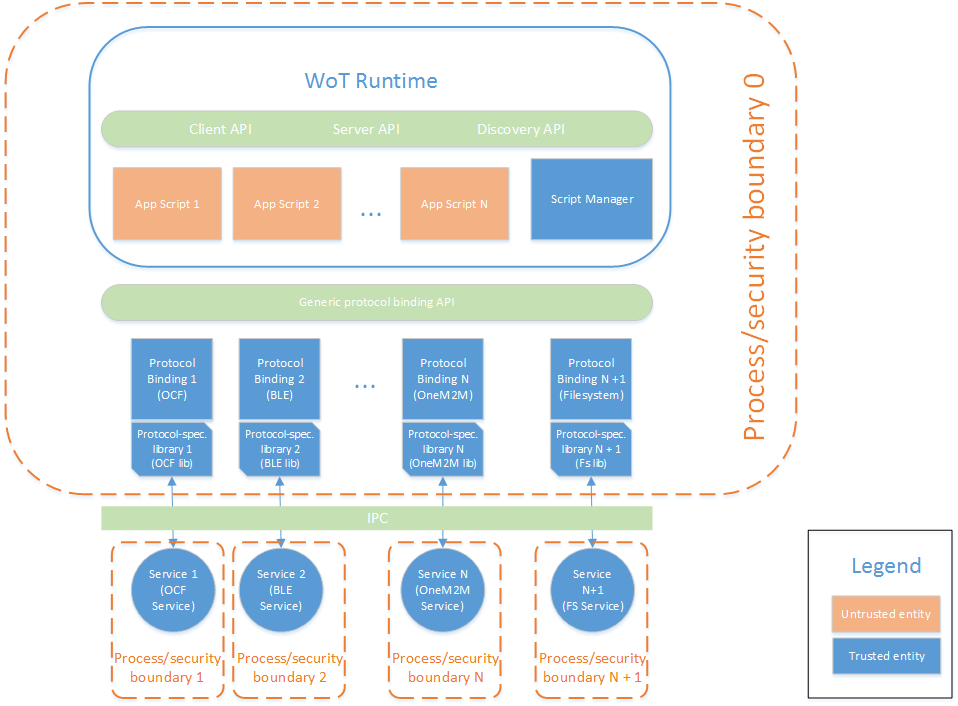
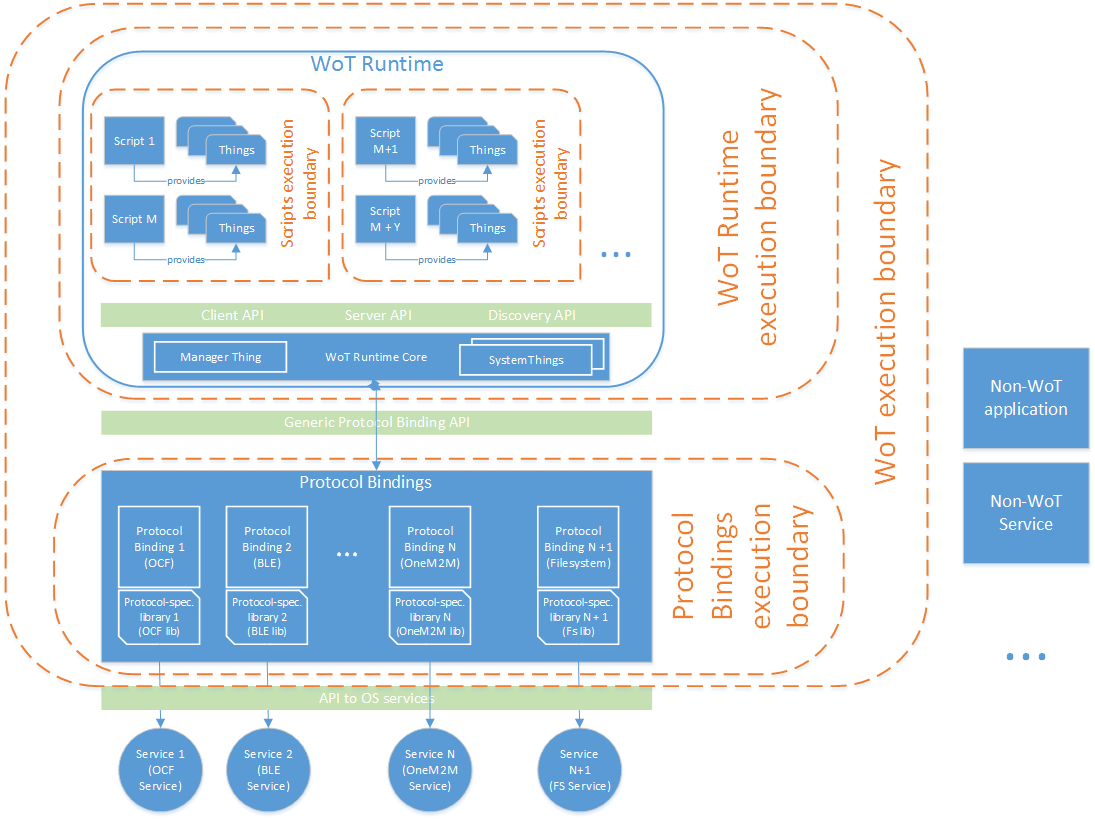
Updates after Osaka's F2F discussions

diff --git a/security-privacy/AssetsThreatModelSecurityObjectives.md b/security-privacy/AssetsThreatModelSecurityObjectives.md
@@ -12,6 +12,14 @@ This section list primary WoT stakeholders.
 
 In addition to the above stakeholders, we might need to define a notion of &quot; **Security Owner**&quot;. It defines an entity that provisions a thing with the security root of trust and sets up initial policies on who can provision/update/remove scripts to/from the WoT runtime, if such model is supported. WoT might generally have a number of independent security owners, each with its own set of provisioned certificates and/or credentials. The exact hierarchy of owners that WoT wants to support is to be discussed. ***Todo: this needs more discussion.***
 
+**WoT Supported Physical Roles?**
+
+This section list primary roles that WoT aims to support.
+
+| **Role** | **Description** | **Level of system access?** |
+| --- | --- | --- |
+| System Maintainer | Administers the WoT network on behalf of solution provider or solution user. ***Todo: need to understand more about this role: what kind of operations would it need to do? Reflash devices, reinstall/install/remove scripts? If it has the level of access equal to solution provider, we just talk about delegation (and there are security mechnisms to do it), not really about separate role...*** | --- |
+
 **Assets**
 
 This section lists all WoT Assets that are important from security point of view.
@@ -19,100 +27,109 @@ This section lists all WoT Assets that are important from security point of view
 | **Description** | **Who should have access (Trust Model)** | **Attack Points** |
 | --- | --- | --- |
 | **Thing Description(TD)**<br />Access Control policies for TDs and resources it provides  are part of TDs and they are managed in discretionary access control model way (owner of TD set the AC policy). Some contents of TDs might be privacy sensitive and therefore should not be shared without a need. TDs integrity is crucial for the system correct operation. | TDs owner: full access Others: read only for minimal required part. | Storage on thing itself, cloud storage, in-transfer (network) including TD updates. |
-| **Solution user data** Can be highly privacy sensitive and confidential. | Different solution users might have different level of access to this data based on the use case. Non-authorized access must be minimized since access even to small amount of information (for example last timestamp when door lock API was used) might have severe privacy converns (allows to detect that owner has been away from his house) Mechanism should be flexible to configure and include also RBAC.  Others: should have no access unless specifically allowed | Storage on thing itself, solution provider storage (remote cloud or other), in-transfer (network) |
-| **Solution provider scripts and their configuration data** | Solution provider: full accessOthers: no access | Storage on the thing itself, remote storage (if scripts are backed up to a remote storage), in-transfer only for initial provisioning and scripts updates |
+| **Thing object instance**<br />Thing object instance confidentiality should be guranteed by the system since it might contain privacy-sensitive information. Integrity is also mandatory for the operation. | Thing owner: full access Others: read only for minimal required part. | WoT Runtime |
+| **Solution user data**<br />Can be highly privacy sensitive and confidential. | Different solution users might have different level of access to this data based on the use case. Non-authorized access must be minimized since access even to small amount of information (for example last timestamp when door lock API was used) might have severe privacy converns (allows to detect that owner has been away from his house) Mechanism should be flexible to configure and include also RBAC.  Others: should have no access unless specifically allowed | Storage on thing itself, solution provider storage (remote cloud or other), in-transfer (network) |
+| **Solution provider scripts and their configuration data**<br />Solution providers might have Intellectual Property (IP) in their scripts, therefore make them highly confidential. | Solution provider: full accessOthers: no access | Storage on the thing itself, remote storage (if scripts are backed up to a remote storage), in-transfer only for initial provisioning and scripts updates |
 | **Thing&#39;s resources, WoT Infrastructure resources** | Resources should only be used for legitimate purposes and be available when required. | WoT exposed API |
-| **WoT controlled environment** | WoT devices that have actuator capabilities are able to affect the physical environment around them. Such capability must only be used by authorized entities and for legitimate purposes only | WoT exposed API |
-| **WoT indirectly transmitted behavoir information** Amount of communication between different things, APIs used, distribution of communication over time, etc. | It must not be possible to collect/identify the   | In-trasfer data and usage of WoT API  |
+| **WoT controlled physical environment** | WoT devices that have actuator capabilities are able to affect the physical environment around them. Such capability must only be used by authorized entities and for legitimate purposes only | WoT exposed API |
+| **WoT indirectly transmitted behavoir information**<br />Amount of communication between different things, APIs used, distribution of communication over time, etc. | It must not be possible to collect/identify the indirectly transferrable information   | In-trasfer data and usage of WoT API  |
+| **Unique object indentifier**<br />Highly sensitive asset. ***todo: Need more understanding/discussion on what it is in WoT*** |   |  |
+| **Links**  ***todo: Need more understanding/discussion on what it is in WoT, model around links*** |   |  |
 | ***Todo: list all the keys/credentials that are used on the level. They will be assets and they will be needed if WoT plans to have its own access control policies and enforce it. The exact list would depend on chosen solution. First step is to obtain the list of protocols that WoT plans to support.*** |   |   |
 
 If in the future the WoT model is extended to allow dynamic installation of scripts inside WoT runtime, the following assets are added:
 
 | **Description** | **Who should have access (Trust Model)** | **Attack Points** |
 | --- | --- | --- |
-| Script provisioning/updates policies.<br />Defines who can install/remove new scripts into WOT runtime, update existing ones |  |   |
+| **Script provisioning/updates policies**<br />Defines who can install/remove new scripts into WOT runtime, update existing ones |  |   |
 
 If in the future the WoT model is extended to allow co-existence of different independent solution providers on a single physical device, the following assets are added:
 
 | **Description** | **Who should have access (Trust Model)** | **Attack Points** |
 | --- | --- | --- |
-| Access control policies for co-existing solution providers.<br />Not required if initially a simple model of &quot;full isolation&quot; is applied to scripts, their execution environment and processed data when having more than two solution providers sharing the same WoT runtime. |   | Storage on the thing itself, remote storage (if they are backed up to a remote storage), in-transfer for initial provisioning and policy updates |
+| **Access control policies for co-existing solution providers**<br />Not required if initially a simple model of &quot;full isolation&quot; is applied to scripts, their execution environment and processed data when having more than two solution providers sharing the same WoT runtime. |   | Storage on the thing itself, remote storage (if they are backed up to a remote storage), in-transfer for initial provisioning and policy updates |
 
 **Adversaries**
 
 The following adversaries are in-scope for the WoT threat model: 
 
-| Persona | Motivation | Attacker type |
+| **Persona** | **Motivation** | **Attacker type** |
 | --- | --- | --- |
-| Non-WoT End Point Attacker  | Tries to get authorized access/modify any asset stored at the non-WoT end points (Cloud, non-WoT devices etc.) Reasons: monetary, fame etc. | Remote or local attack |
-| WoT Network attacker | Unauthorised access or modification of any stakeholder's asset. Denial of service. Taking control of WoT network part. Reasons: monetary, fame etc. | Network attack: an attacker has a network access to the WoT network, able to use WoT API, perform MitM attacks, drop, delay, reorder, re-play, inject messages. |
-| Malicious authorized solution user | Unauthorized access of private data of other solution users or other stakeholders (eavesdropping). Unauthorized modification of data of any stakeholder (modification of sensor data). Obtaining higher privileges that originally intended (hotel guest trying to control overall hotel lighting). | Local physical access, WoT configuration point (smartphone, web interface, washing machine interface, etc.). |
-| Malicious unauthorized solution user | Similar to above, but with no prior access to the WoT system (guest in a house, guest in a factory) | Limited local physical network access, can use proximity factor |
-| Malware developer - 1 | Unauthorised access or modification of any stakeholder's asset. Denial of service. Taking control of WoT network part. Reasons: monetary, fame etc. | Unprivileged software adversary: application intentionally gets installed or code injected into WoT configuration point (user&#39;s smartphone, browser, etc.) or in WoT runtime itself using WoT API |
+| **WoT Network attacker** | Unauthorised access or modification of any stakeholder's asset. Denial of service. Taking control of WoT network part. Reasons: monetary, fame etc. | Network attack: an attacker has a network access to the WoT network, able to use WoT API, perform MitM attacks, drop, delay, reorder, re-play, inject messages. |
+| **Malicious authorized solution user** | Unauthorized access of private data of other solution users or other stakeholders (eavesdropping). Unauthorized modification of data of any stakeholder (modification of sensor data). Obtaining higher privileges that originally intended (hotel guest trying to control overall hotel lighting). | Local physical access, WoT configuration point (smartphone, web interface, washing machine interface, etc.). |
+| **Malicious unauthorized solution user** | Similar to above, but with no prior access to the WoT system (guest in a house, guest in a factory) | Limited local physical network access, can use proximity factor |
+| **Malware developer - 1** | Unauthorised access or modification of any stakeholder's asset. Denial of service. Taking control of WoT network part. Reasons: monetary, fame etc. | Unprivileged software adversary: application intentionally gets installed or code injected into WoT configuration point (user&#39;s smartphone, browser, etc.) or in WoT runtime itself using WoT API |
 |   |   |   |
 
 If in the future the WoT model is extended to allow co-existence of different independent solution providers on a single physical device, the following adversaries are added:
 
-| Persona | Motivation | Attacker type |
+| **Persona** | **Motivation** | **Attacker type** |
 | --- | --- | --- |
-| Malicious solution provider | Tries to get access or modify other solution providers scripts or data, tries to access or modify solution users data from another solution provider. | Unprivileged software adversary: solution provider scripts running inside WoT runtime |
+| **Malicious solution provider** | Tries to get access or modify other solution providers scripts or data, tries to access or modify solution users data from another solution provider. | Unprivileged software adversary: solution provider scripts running inside WoT runtime |
 
 If in the future the WoT model is extended to allow dynamic installation of scripts inside WoT runtime, the following adversaries are added:
 
-| Persona | Motivation | Attacker type |
+| **Persona** | **Motivation** | **Attacker type** |
 | --- | --- | --- |
-| Malware developer - 2 | Same as WoT network attacker | Same as for Malware developer - 1, but in addition WoT management API can be used to install attacker's code into WoT runtime.  |
+| **Malware developer - 2** | Same as WoT network attacker | Same as for Malware developer - 1, but in addition WoT management API can be used to install attacker's code into WoT runtime.  |
 
 The following adversaries are out of the scope for the WoT threat model:
 
-| Persona | Motivation | Attacker type |
+| **Persona** | **Motivation** | **Attacker type** |
 | --- | --- | --- |
-| Malicious OEM  | Intentionally installs HW, firmware or other lower sw level backdoors, rootkits etc. in order to get unauthorized access to WoT assets or affect WoT system in any form | Local physical access, privileged access |
-| Careless OEM  | In order to reduce production costs substitutes original HW parts with low quality parts potentially impacting security. | Local physical access, privileged access |
-| Careless Solution provider  | In order to reduce solution deployment costs utilizes low quality SW, performs poor testing, misconfigures things, TDs and access control policies. | Local physical access, prilividged access |
+| **Malicious OEM** | Intentionally installs HW, firmware or other lower sw level backdoors, rootkits etc. in order to get unauthorized access to WoT assets or affect WoT system in any form | Local physical access, privileged access |
+| **Careless OEM**  | In order to reduce production costs substitutes original HW parts with low quality parts potentially impacting security. | Local physical access, privileged access |
+| **Careless Solution provider**  | In order to reduce solution deployment costs utilizes low quality SW, performs poor testing, misconfigures things, TDs and access control policies. | Local physical access, prilividged access |
+| **Non-WoT End Point Attacker**  | Tries to get authorized access/modify any asset stored at the non-WoT end points (Cloud, non-WoT devices etc.) Reasons: monetary, fame etc. | Remote or local attack |
 
 **Attack surfaces**
 
-In order to correctly define WoT attack surfaces one needs to determine elements of the system that are untrusted (can be potentially compromised), system trusted computing base (TCB) (core system that we assume to be trusted), system's process boundaries and entry points. Figure 1 presents high-level view on WoT architecture with important from security point of view elements. 
+In order to correctly define WoT attack surfaces one needs to determine the system's trust model as well as execution context boundaries. Figure 1 presents high-level view on WoT architecture from the security point of view with all possible execution boundaries. However, in practice certain execution boundaries might not be present and it is dependent on the actual device implementation.
 
 <div  style="text-align: center;"><img  src="WoTArchSecurityView.png" title="WoT High-Level Architecture Security View" /></div>
- <p  style="text-align: center;">Fig.1 WoT High-Level Architecture Security View</p>
+ <p  style="text-align: center;">Fig.1 WoT High-Level Architecture Security View.</p>
  <p  style="text-align: left;">
- 
- Figure 1 currently presents one trust model, where application scripts are not considered trusted, while the rest of system is. Also, on this figure, both WoT Runtime and Protocol Bindings are considered within one process and security boundary, while in practice implementation can differ.
-***Todo at F2F discussions: we need to have a trust model defined. This means that either we assume the worst case model from security point of view or we try to create a number of different security models that WoT supports***  
 
-The following WoT attack surfaces are in-scope for the WoT Security model:
+The main execution boundaries for WoT system are:
+
+| **Boundary name** | **Description** | **Notes** |
+| --- | --- | --- |
+| **Scripts execution boundary** | Separates execution contexts between different scripts and script-provided thing instances. If present, this boundary should be implemented either as having different script runtime contexts (with WoT runtime isolation means) or by having separate process execution contexts (with OS process isolation means) | This boundary is required if we assume that WoT Runtime can run untrusted scripts | 
+| **WoT execution boundary** | Separates execution contexts between WoT runtime (including Protocol Bindings) and the rest of the system. If present, this boundary should be implemented at least with OS process isolation means, but in addition can be implemented using stronger security measures available on the device (Mandatory Access Control, OS-kernel level virtualization, Full Virtualization etc.)  | This boundary is required if we assume that WoT Runtime might run untrusted scripts or there might be untrusted Protocol Bindings present. It is also required if a device also runs a non-WoT SW stack and elements of that stack can be compromised |
+| **WoT Runtime and Protocol Bindings execution boundaries** | Separate execution contexts between WoT runtime and Protocol Bindings. If present, these boundaries should be implemented at least with OS process isolation means. | These boundaries might be needed if we assume that WoT Runtime can run untrusted scripts and would like to implement additional access control measures at the Protocol Binding level. | 
+
+
+
+The following WoT attack surfaces are always in-scope for the WoT Security model:
 
 | **System Element** | **Compromise Type(s)** | **Assets exposed** | **Attack Method** |
 | --- | --- | --- | --- |
-| WoT Runtime | Component compromise | TDs, solution user data, Thing&#39;s resources, WoT Infrastructure resources, WoT controlled environment, solution provider data/scripts | Local attack by WoT scripts (if we assume them to be untrusted), network attack using WoT API |
-| WoT Client and Server APIs | Modification/access to TDs, user data modification/data confidentiality, Unauthorized execution of APIs, DoS | TDs, solution user data, Thing&#39;s resources, WoT Infrastructure resources, WoT controlled environment, WoT indirectly transmitted behaviour information | Network attack |
-| WoT Discovery API/Service |Modification/access to TDs, Thing&#39;s resources, WoT Infrastructure resources, WoT indirectly transmitted behaviour information | TDs, Thing&#39;s resources, WoT Infrastructure resources | Network attack |
-| Protocol Bindings | User data modification/data confidentiality, Unauthorized execution of APIs, DoS | Solution user data, Thing&#39;s resources, WoT Infrastructure resources, WoT controlled environment | Local attack by WoT Script |
-| Platform Services | User data modification/data confidentiality, Unauthorized execution of APIs, DoS | Solution user data, Thing&#39;s resources, WoT Infrastructure resources, WoT controlled environment | Local attack by WoT Script |
+| **WoT Client and Server APIs** | Modification/access to TDs, user data modification/data confidentiality, Unauthorized execution of APIs, DoS | TDs, solution user data, Thing&#39;s resources, WoT Infrastructure resources, WoT controlled environment, WoT indirectly transmitted behaviour information | Network attack |
+| **WoT Discovery API/Service** |Modification/access to TDs, Thing&#39;s resources, WoT Infrastructure resources, WoT indirectly transmitted behaviour information | TDs, Thing&#39;s resources, WoT Infrastructure resources | Network attack |
+| **Protocol Bindings** | User data modification/data confidentiality, Unauthorized execution of APIs, DoS | Solution user data, Thing&#39;s resources, WoT Infrastructure resources, WoT controlled environment | Network attack |
 
-If we consider application scripts from the Figure 1 being untrusted (together with assumption about a single process running both WoT Runtime and Protocol Bindings), then ultimately all of WoT Runtime and Protocol bindings becomes untrusted element. So, we might want in the first model to consider scripts being trusted entities. ***todo: discuss at F2F***
+The following WoT attack surfaces are only in-scope for the WoT Security model if we assume application scripts can be untrusted or we assume co-existence of different solution providers on a single physical device:
+
+| **System Element** | **Compromise Type(s)** | **Assets exposed** | **Attack Method** |
+| --- | --- | --- | --- |
+| **WoT Script** | Component compromise | TDs, solution user data, solution provider data/scripts | Local attack by other WoT scripts |
+| **WoT Runtime** | Component compromise | TDs, solution user data, Thing&#39;s resources, WoT Infrastructure resources, WoT controlled environment, solution provider data/scripts | Local attack by WoT scripts |
 
 If in the future the WoT model is extended to allow dynamic installation of scripts inside WoT runtime, the following attack surfaces are added:
 
 | **System Element** | **Compromise Type(s)** | **Assets exposed** | **Attack Method** |
 | --- | --- | --- | --- |
-| WoT Script Management API  | Compromise of application scripts, including installing older version of legitimate scripts (rollback) |  Solution provider scripts and their execution environment | Network attack  |
+| **WoT Script Management API**  | Compromise of application scripts, including installing older version of legitimate scripts (rollback) |  Solution provider scripts and their execution environment | Network attack  |
 
-If in the future the WoT model is extended to allow co-existence of different independent solution providers on a single physical device, the following attack surfaces are added:
+Another additional set of attack surfaces might be added if we assume that Protocol Bindings can be untrusted. ***Todo: define them if such model is supported.***
 
-| **System Element** | **Compromise Type(s)** | **Assets exposed** | **Attack Method** |
-| --- | --- | --- | --- |
-| WoT Script | Component compromise | TDs, solution user data, solution provider data/scripts | Local attack by other WoT scripts |
-
-
-The following WoT attack surfaces are out-of-scope for the WoT Security model:
+The following attack surfaces are out-of-scope for the WoT Security model:
 
 | **System Element** | **Compromise Type(s)** | **Assets exposed** | **Attack Method** |
 | --- | --- | --- | --- |
-| Non-WoT endpoints (cloud, other devices) | Component compromise | TDs, solution user data, WoT Infrastructure resources | Network attack, Local attack |
-| End things themselves | Component compromise on levels below WoT | Modification/access to TDs, Thing&#39;s resources, WoT Infrastructure resources | Local attack, physical attack |
+| **Non-WoT endpoints**<br />This might be non-WoT endpoint devices, user interface devices, remote Clouds etc. | Component compromise | TDs, solution user data, WoT Infrastructure resources | Network attacks, Local attack of all levels |
+| **Services below WoT Layer** | Component compromise on levels below WoT | Modification/access to TDs, Thing&#39;s resources, WoT Infrastructure resources | Network attacks, Local attacks of all levels |
+
 
 
 **Threats**
